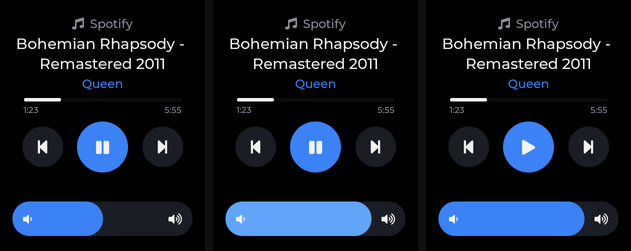
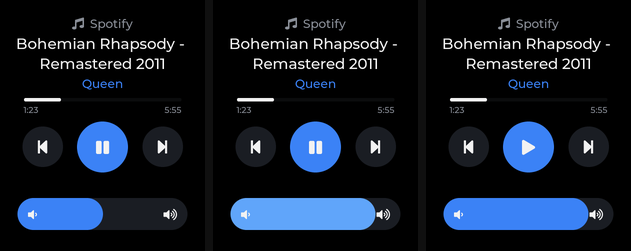
0.3.2: Now playing volume bar fixes (no back swipe, fast BLE link, fits corners)
Claude-Session: https://claude.ai/code/session_01Nqsr6auxpmrPFzYNo1cdRu

Changed region(s): [[0.0, 0.7809, 0.6624, 0.9482], [0.6926, 0.7809, 0.9937, 0.9482], [0.0301, 0.7809, 0.3011, 0.8367]]

diff --git a/main/ui.c b/main/ui.c
@@ -354,6 +354,7 @@ static void show(scr_id_t id, lv_screen_load_anim_t anim)
     else lv_timer_pause(p_timer);
     if (id == SCR_MEDIA) { media_refresh(true); lv_timer_resume(mu_timer); }
     else if (mu_timer) lv_timer_pause(mu_timer);
+    ble_set_ui_fast(id == SCR_MEDIA);   /* Lecture affichée : lien rapide, le volume suit le doigt */
     if (id == SCR_ABOUT) about_refresh();
     if (id == SCR_MENU) menu_refresh_summaries();
     if (id == SCR_SET_BT) { menu_bt_refresh(); lv_obj_add_flag(m_confirm, LV_OBJ_FLAG_HIDDEN); }
@@ -2820,7 +2821,12 @@ static lv_obj_t *media_button(lv_obj_t *p, const char *sym, int size, lv_color_t
 /* Disposition (zone utile 360 × 442) : appli, titre sur 2 lignes, artiste,
  * progression, 3 grosses touches, puis le volume en large barre à glisser
  * comme sur l'iPhone. Plus d'album ni de petits boutons − / +. */
-#define MU_VOL_H S(46)
+/* barre de volume : 340 × 64 px, bas à 460 px. Ses bouts arrondis restent
+ * à ~14 px du bord visible de la dalle (coins de rayon 118, comme le filet
+ * du cadran pub) ; plus large ou plus basse, elle mordait sur l'arrondi. */
+#define MU_VOL_H 64
+#define MU_VOL_W 340
+#define MU_VOL_DY (-12)
 static void build_media(void)
 {
     lv_obj_t *s = s_scr[SCR_MEDIA] = mk_screen();
@@ -2873,11 +2879,13 @@ static void build_media(void)
     lv_obj_align(mu_btn[2], LV_ALIGN_TOP_MID, S(80), S(149));
 
     /* Volume : barre épaisse sans bouton rond, remplie jusqu'au niveau ; on
-     * la touche ou on y glisse le doigt n'importe où. Pas de « bubble » :
-     * le glissement horizontal reste au curseur, pas au geste « retour ». */
+     * la touche ou on y glisse le doigt n'importe où. */
     mu_vol = lv_slider_create(mu_box);
-    lv_obj_set_size(mu_vol, UI_W, MU_VOL_H);
-    lv_obj_align(mu_vol, LV_ALIGN_BOTTOM_MID, 0, 0);
+    lv_obj_set_size(mu_vol, MU_VOL_W, MU_VOL_H);
+    lv_obj_align(mu_vol, LV_ALIGN_BOTTOM_MID, 0, MU_VOL_DY);
+    /* LVGL fait remonter les gestes de tout objet au parent par défaut :
+     * glisser sur la barre déclenchait le « retour » de l'écran */
+    lv_obj_remove_flag(mu_vol, LV_OBJ_FLAG_GESTURE_BUBBLE);
     lv_slider_set_range(mu_vol, 0, 100);
     lv_obj_set_style_radius(mu_vol, MU_VOL_H / 2, LV_PART_MAIN);
     lv_obj_set_style_radius(mu_vol, MU_VOL_H / 2, LV_PART_INDICATOR);
@@ -3679,6 +3687,7 @@ static void release_group(int g)
 void ui_release_idle(void)
 {
     banner_hide(false);
+    ble_set_ui_fast(false);              /* écran éteint : retour au lien économe */
     /* l'app reste construite écran éteint : on lui dit qu'elle n'est plus
      * visible (Wi-Fi, timers d'affichage…) ; ui_on_wake() la réveille */
     if (s_cur == SCR_APP && s_app_cur && s_app_cur->on_hide) s_app_cur->on_hide();
@@ -3763,7 +3772,7 @@ void ui_on_wake(void)
         face_bake_flush();               /* aiguilles à l'heure dès la première image */
     }
     if (s_cur == SCR_POWER) power_refresh();
-    if (s_cur == SCR_MEDIA && s_scr[SCR_MEDIA]) media_refresh(true);
+    if (s_cur == SCR_MEDIA && s_scr[SCR_MEDIA]) { media_refresh(true); ble_set_ui_fast(true); }
 }
 
 bool ui_on_notif(notif_entry_t *e, bool alert)

diff --git a/main/ble.c b/main/ble.c
@@ -130,6 +130,8 @@ static volatile bool s_mc_on;           /* MeshCore actif : visible pour l'app *
 #define MC_ITVL_MAX     24      /* 30 ms */
 #define MC_RETRY_MS     2000
 static bool s_mc_fast;                  /* lien rapide + verrous tenus (tâche hôte) */
+static volatile bool s_ui_fast;         /* écran Lecture affiché : lien rapide aussi */
+static struct ble_npl_event s_ev_uifast;
 static void mc_set_fast(bool on);
 
 /* Table GATT : à incrémenter à chaque service ajouté ou retiré. iOS garde en
@@ -407,11 +409,27 @@ static void adv_start_connected(void)
 
 static void ev_mc_cb(struct ble_npl_event *ev)
 {
-    if (!s_nus_sub) mc_set_fast(false);
+    if (!s_nus_sub) mc_set_fast(s_ui_fast);
     if (ble_gap_adv_active()) ble_gap_adv_stop();
     adv_set_data();
     if (s_conn == BLE_HS_CONN_HANDLE_NONE) adv_start(s_fast_adv, ADV_FAST_MS);
     else adv_start_connected();
+}
+
+/* écran Lecture : lien rapide (15-30 ms) le temps qu'il est affiché, pour
+ * que les crans de volume AMS s'enchaînent vite ; retour à l'éco ensuite,
+ * sauf si l'appli MeshCore est connectée */
+static void ev_uifast_cb(struct ble_npl_event *ev)
+{
+    if (s_conn == BLE_HS_CONN_HANDLE_NONE) return;
+    mc_set_fast(s_nus_sub || s_ui_fast);
+}
+
+void ble_set_ui_fast(bool on)
+{
+    if (s_ui_fast == on) return;
+    s_ui_fast = on;
+    if (s_running && !s_stopping) ble_npl_eventq_put(nimble_port_get_dflt_eventq(), &s_ev_uifast);
 }
 
 void ble_mc_set_enabled(bool on)
@@ -553,6 +571,7 @@ void ble_internal_ancs_ready(uint16_t conn)
     set_state(BLE_ST_READY);
     s_eco_tries = 0;
     ble_npl_callout_reset(&s_co_eco, ble_npl_time_ms_to_ticks32(ECO_DELAY_MS));
+    if (s_ui_fast) mc_set_fast(true);     /* reconnecté avec Lecture à l'écran */
 }
 
 /* ------------------------------------------------------------------ */
@@ -828,7 +847,7 @@ static int gap_event(struct ble_gap_event *event, void *arg)
             if (up != s_nus_sub) {
                 s_nus_sub = up;
                 mc_ble_link(up);
-                mc_set_fast(up);     /* rapide tant que l'appli reste connectée */
+                mc_set_fast(up || s_ui_fast);     /* rapide tant que l'appli reste connectée */
             }
         }
         return 0;
@@ -984,6 +1003,7 @@ esp_err_t ble_start(void)
     ble_npl_event_init(&s_ev_forget, ev_forget_cb, NULL);
     ble_npl_event_init(&s_ev_pair, ev_pair_cb, NULL);
     ble_npl_event_init(&s_ev_mc, ev_mc_cb, NULL);
+    ble_npl_event_init(&s_ev_uifast, ev_uifast_cb, NULL);
     ble_npl_event_init(&s_ev_coex, ev_coex_cb, NULL);
     s_ancs_up = !s_hid;
     if (s_ancs_up) ancs_host_init();
@@ -1015,6 +1035,7 @@ void ble_stop(void)
         ble_npl_event_deinit(&s_ev_forget);
         ble_npl_event_deinit(&s_ev_pair);
         ble_npl_event_deinit(&s_ev_mc);
+        ble_npl_event_deinit(&s_ev_uifast);
         ble_npl_event_deinit(&s_ev_coex);
         if (s_ancs_up) ancs_host_deinit();
         s_ancs_up = false;

diff --git a/main/ble.h b/main/ble.h
@@ -42,6 +42,7 @@ void      ble_pairing_mode(void);       /* thread-safe : pub rapide pendant 60 s
 void      ble_wifi_coex(bool wifi_on);  /* radio Wi-Fi démarrée : pas de modem sleep BLE (coexistence) */
 /* mode souris (ble_hid.h) : pris en compte au prochain ble_start() */
 void      ble_set_hid_mode(bool on);
+void      ble_set_ui_fast(bool on);   /* écran qui veut un lien rapide (Lecture) ; thread-safe */
 bool      ble_hid_mode(void);
 uint8_t   ble_get_battery(void);
 

diff --git a/CHANGELOG.md b/CHANGELOG.md
@@ -2,6 +2,16 @@
 
 All notable changes. Versions follow `PROJECT_VER` in `CMakeLists.txt`.
 
+## 0.3.2 — 2026-11-27
+
+- Now playing: dragging along the volume bar no longer triggers the "back" swipe (LVGL passes
+  gestures up to the screen by default).
+- Now playing: while it is on screen, the Bluetooth link switches to its fast setting
+  (15-30 ms, like with the MeshCore app) so volume steps follow the finger; it goes back to
+  the economical link when the screen goes off or another screen opens.
+- Now playing: the volume bar is narrower and higher (340 × 64 px) so its rounded ends stay
+  inside the screen's rounded corners.
+
 ## 0.3.1 — 2026-11-27
 
 - Now playing: the volume is a wide bar you touch or drag with a finger (like the iPhone)
